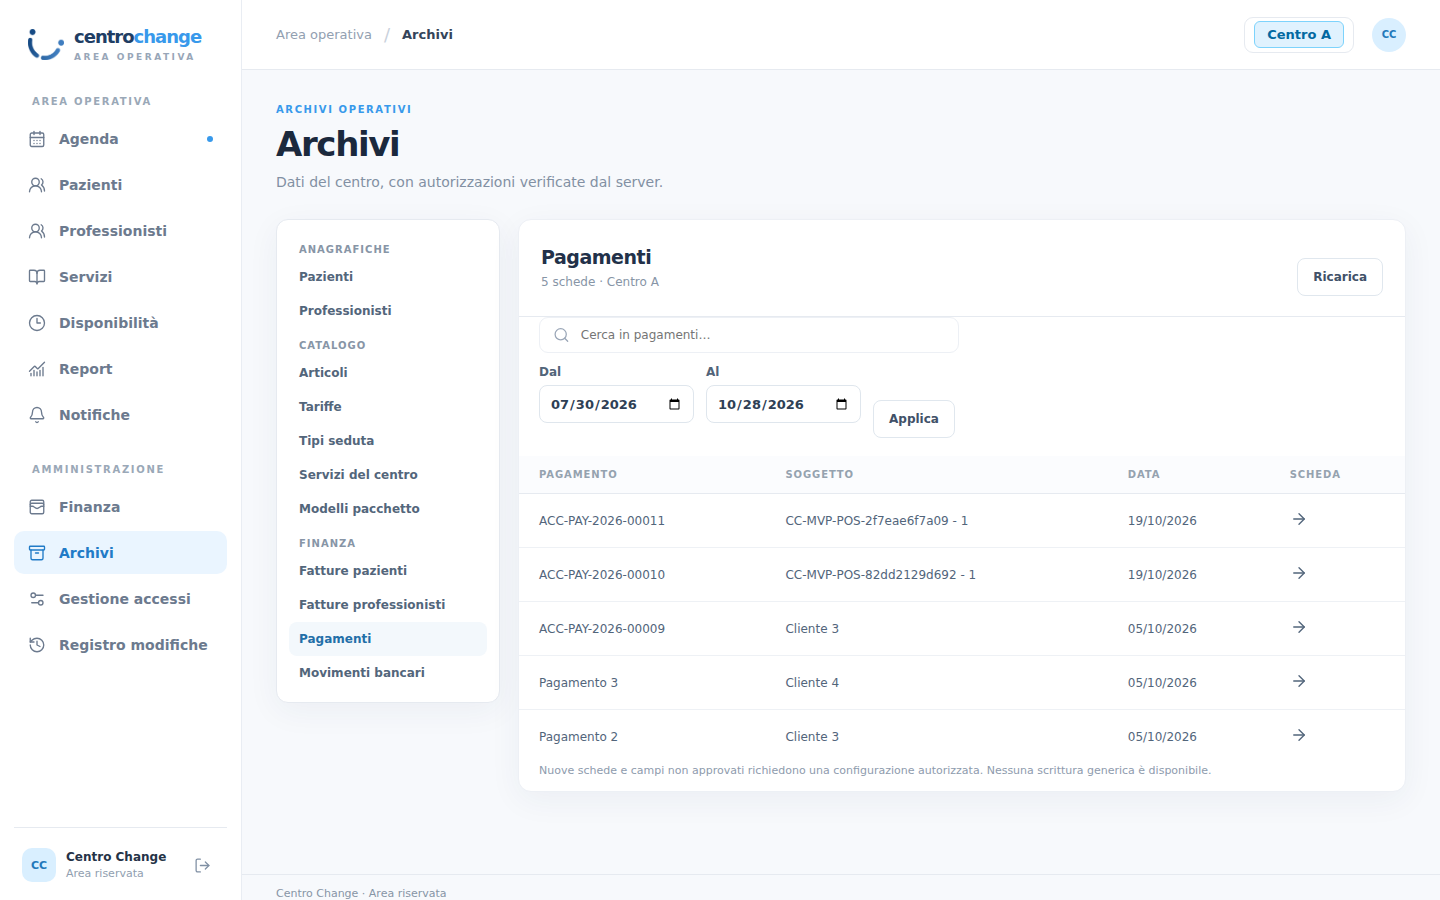
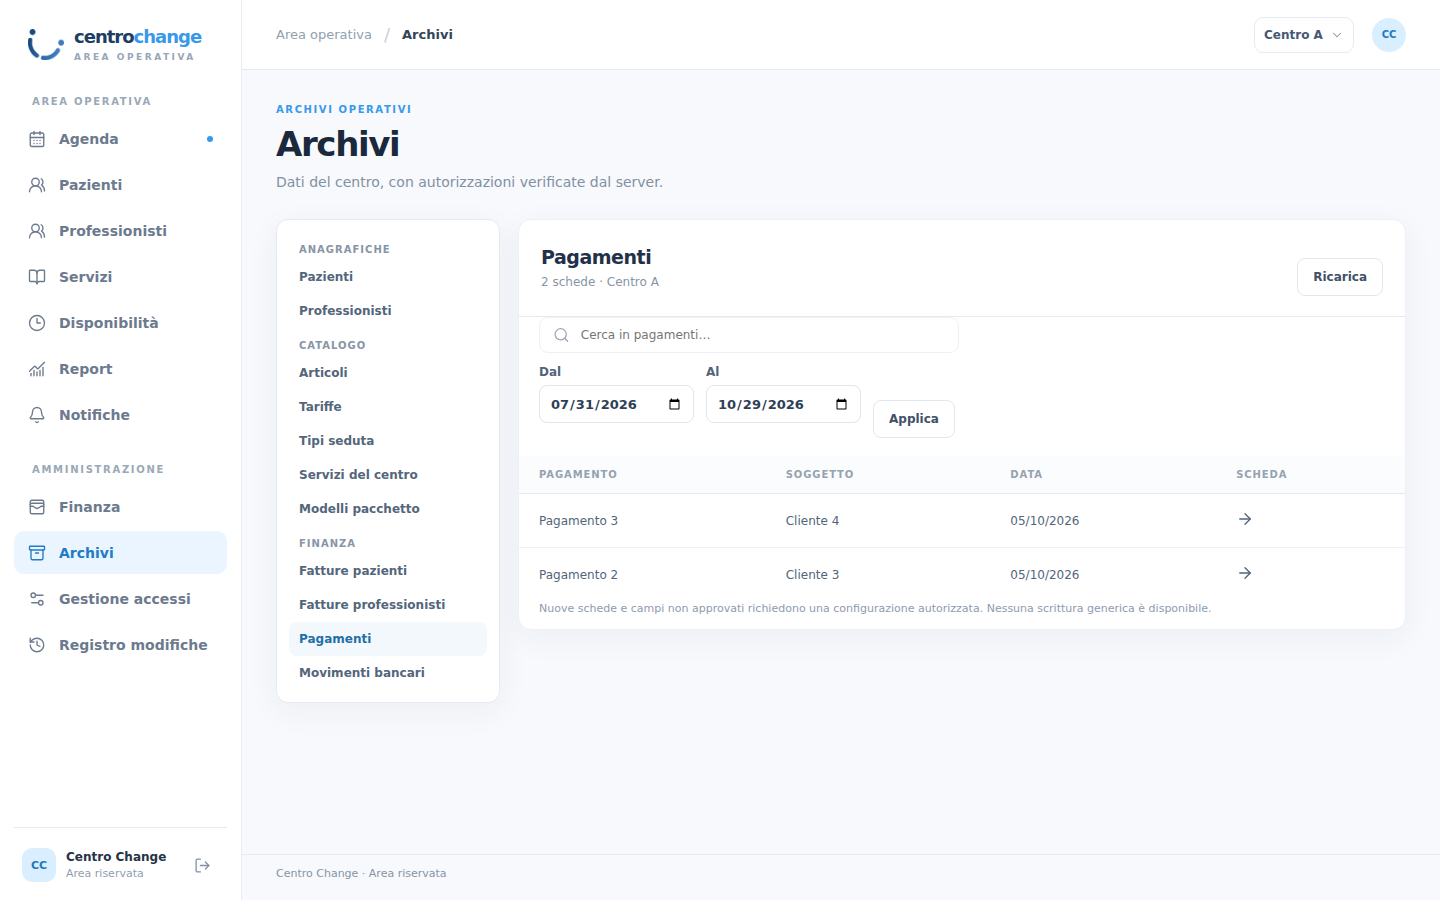
audit09: preserve external browser evidence and scoped matrix verdict

diff --git a/infra/test_audit09_isolated_clone.py b/infra/test_audit09_isolated_clone.py
@@ -669,12 +669,29 @@ try:
         denied(lambda kind=kind: reporting.records(center=center, doctype=kind, limit=50), 'Guest ' + kind)
     denied(lambda: payments.records(center=center, start='2026-01-01', end='2026-12-31'), 'Guest Payment Entry')
 
-    frappe.set_user(user_a)
-    for kind in ('Item', 'Item Price', 'Appointment Type', 'CC Center Service', 'CC Package Template'):
-        denied(lambda kind=kind: catalog.records(center=center, kind=kind), 'Professional ' + kind)
-    for kind in ('Sales Invoice', 'Purchase Invoice', 'Bank Transaction'):
-        denied(lambda kind=kind: reporting.records(center=center, doctype=kind, limit=50), 'Professional ' + kind)
-    denied(lambda: payments.records(center=center, start='2026-01-01', end='2026-12-31'), 'Professional Payment Entry')
+    professional_users = frappe.get_all('Has Role', filters={'role': 'CC Professional',
+        'parenttype': 'User', 'parent': ['in', member_users]}, pluck='parent')
+    assert len(professional_users) == 3, 'Three professional identities missing from clone'
+    for professional_user in professional_users:
+        frappe.set_user(professional_user)
+        own_practitioner = frappe.db.get_value('Healthcare Practitioner', {'user_id': professional_user}, 'name')
+        own_rows = profiles.practitioners(center=center)['rows']
+        assert all(row['name'] == own_practitioner for row in own_rows), 'Professional saw another practitioner'
+        assert isinstance(profiles.patients(center=center)['rows'], list)
+        for kind in ('Item', 'Item Price', 'Appointment Type', 'CC Center Service', 'CC Package Template'):
+            denied(lambda kind=kind: catalog.records(center=center, kind=kind), 'Professional ' + kind)
+        for kind in ('Sales Invoice', 'Purchase Invoice', 'Bank Transaction'):
+            denied(lambda kind=kind: reporting.records(center=center, doctype=kind, limit=50), 'Professional ' + kind)
+        denied(lambda: payments.records(center=center, start='2026-01-01', end='2026-12-31'), 'Professional Payment Entry')
+
+    for finance_role in ('CC Finance', 'CC Accountant'):
+        finance_users = frappe.get_all('Has Role', filters={'role': finance_role,
+            'parenttype': 'User', 'parent': ['in', member_users]}, pluck='parent')
+        assert len(finance_users) == 1, finance_role + ': identity missing from clone'
+        frappe.set_user(finance_users[0])
+        assert isinstance(reporting.records(center=center, doctype='Sales Invoice', limit=50), dict)
+        assert isinstance(payments.records(center=center, start='2026-01-01', end='2026-12-31'), dict)
+        denied(lambda: catalog.records(center=center, kind='Item'), finance_role + ' catalog')
 
     frappe.set_user(secretary_user)
     denied(lambda: catalog.records(center=center, kind='Item'), 'Secretariat catalog')

diff --git a/docs/evidence/issue-183/AUDIT09-RECONCILIATION.md b/docs/evidence/issue-183/AUDIT09-RECONCILIATION.md
@@ -1,0 +1,31 @@
+# AUDIT-09 — Archivi: riconciliazione tecnica
+
+Issue #183; PR DRAFT #184. Esecuzione 29/10/2026 UTC sul codice candidato `5836d2618c25accb5dc2a25019620e5d2f0bc9c8`. Il rapporto di fase e la HEAD definitiva sono registrati nella Issue e nel tracker #156 dopo le CI della PR.
+
+## Perimetro verificato
+
+| Archivio | Lista, ricerca server-side, scheda Chromium desktop/mobile | Scrittura approvata sul clone |
+| --- | --- | --- |
+| Pazienti | PASS | Modifica con commit, lettura, idempotenza, 409 stale, audit |
+| Professionisti | PASS | Modifica con commit, lettura, audit |
+| Articoli | PASS | Modifica nome con commit e lettura; creazione standalone vietata |
+| Tariffe | PASS | Creazione/modifica con commit, lettura, duplicato respinto |
+| Tipi seduta | PASS | Creazione/modifica con commit e lettura |
+| Servizi del centro | PASS | Creazione/modifica stato con commit e lettura |
+| Modelli pacchetto | PASS | Creazione/modifica con commit e lettura |
+| Fatture pazienti | PASS | Proiezione sola lettura; anteprima nativa |
+| Fatture professionisti | PASS | Proiezione sola lettura; anteprima nativa |
+| Pagamenti | PASS | Proiezione sola lettura; anteprima nativa; allocazione diretta vietata |
+| Movimenti bancari | PASS | Proiezione sola lettura |
+
+La ricerca è applicata dal server prima della paginazione. Sales Invoice, Purchase Invoice e Bank Transaction sono stati verificati con 525 righe sintetiche ciascuno, offset 500 e ricerca della riga 520. Il browser non filtra nuovamente la pagina restituita dal server. La suite prova permessi positivi e negativi via funzione Frappe diretta per Manager, Segreteria, tre Professionisti, Finance, Accountant e Guest, inclusi tentativi cross-center; le CI offline coprono anche i contratti API/React.
+
+## Prove riproducibili fuori VPS
+
+- [CI offline](https://github.com/2008hitch-afk/centrochange_core/actions/runs/40845454786): SUCCESS; 177 test Python (1 skip), 228 test Playwright generali (8 skip), 36 test Playwright scoped; typecheck, build React e parità sorgente/manifesto PASS.
+- [Clone Frappe/MariaDB e Chromium](https://github.com/2008hitch-afk/centrochange_core/actions/runs/40845454789): SUCCESS; bootstrap autonomo su runner GitHub temporaneo, 11 contratti lista/scheda e ricerche, salvataggi nativi con lettura dopo commit, paginazione oltre 500, RBAC/IDOR, anteprime HTML, 11 drawer desktop e 11 mobile PASS. Pulizia di container, rete e volume del clone verificata dal job.
+- 31 screenshot sintetici prodotti dal browser reale sono in questa directory. L'[artifact del runner](https://github.com/2008hitch-afk/centrochange_core/actions/runs/40845454789) conserva gli originali del job.
+
+I limiti sono espliciti nella matrice: `CC-EXT-021` è PASS nel perimetro degli 11 Archivi, PARTIAL come completezza globale per il limite di 500 servizi nella proiezione catalogo e la finestra di 366 giorni dei pagamenti. `CC-EXT-022` è PASS per le proiezioni read-only di Archivi, PARTIAL rispetto alla scheda contabile completa riservata ad AUDIT-12/13. `CC-CAP-034` e `CC-CAP-038` rimangono PARTIAL a livello trasversale; le prove AUDIT-09 non li promuovono globalmente.
+
+Nessun clone, database o laboratorio Docker è stato creato sul VPS applicativo. Nessuna installazione DEV, merge o modifica di produzione è stata eseguita. Le modifiche locali AUDIT-06 sono rimaste nel loro worktree.
